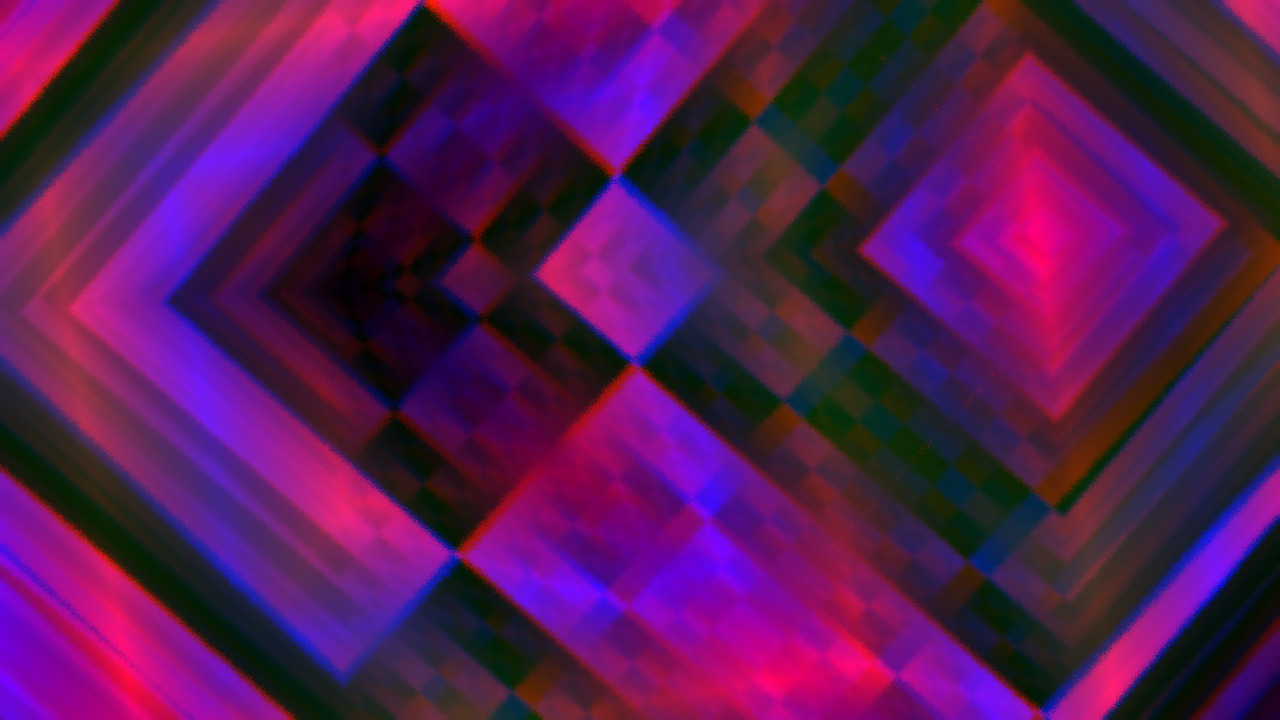
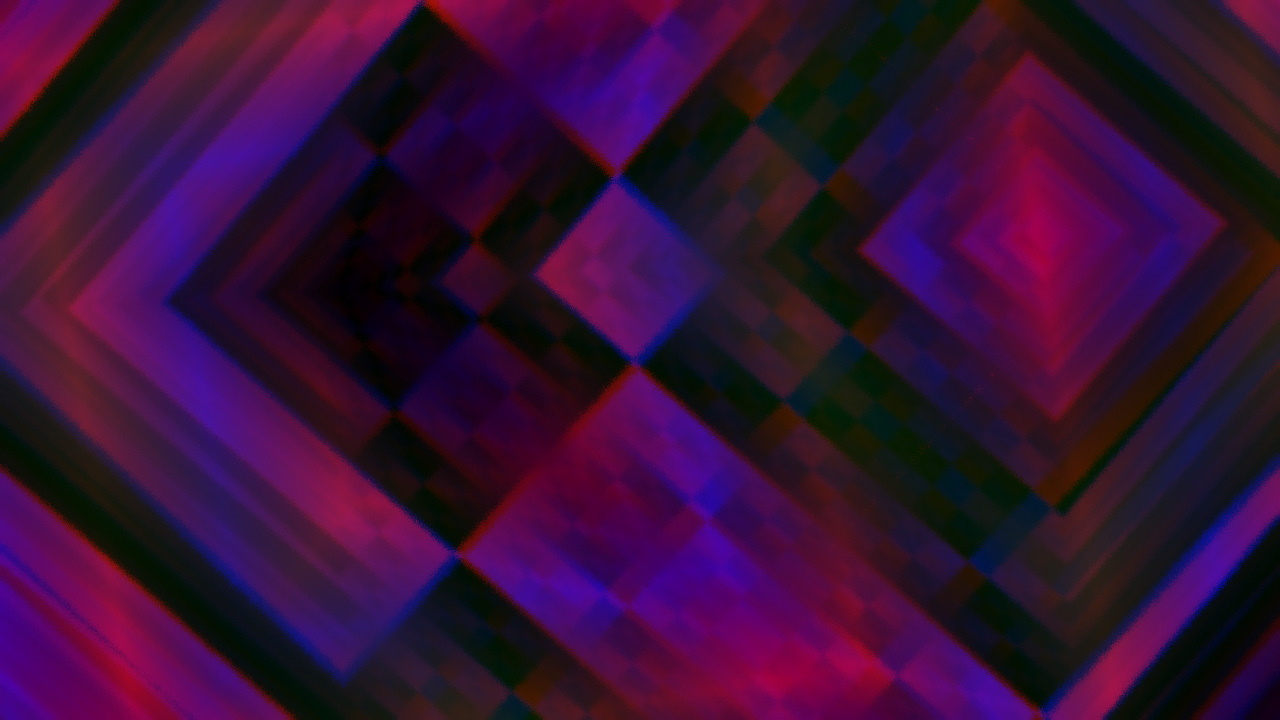
updated website

diff --git a/style.css b/style.css
@@ -72,8 +72,8 @@ body,head {
     -1px -1px 10px blue;
 }
 body{
-    background: url("/background_fallback.jpeg") repeat;
-    background-size: 50%;
+    background: url("/background_fallback.jpeg");
+    background-size: 100%;
 }
 html,body {
     text-align: center;
